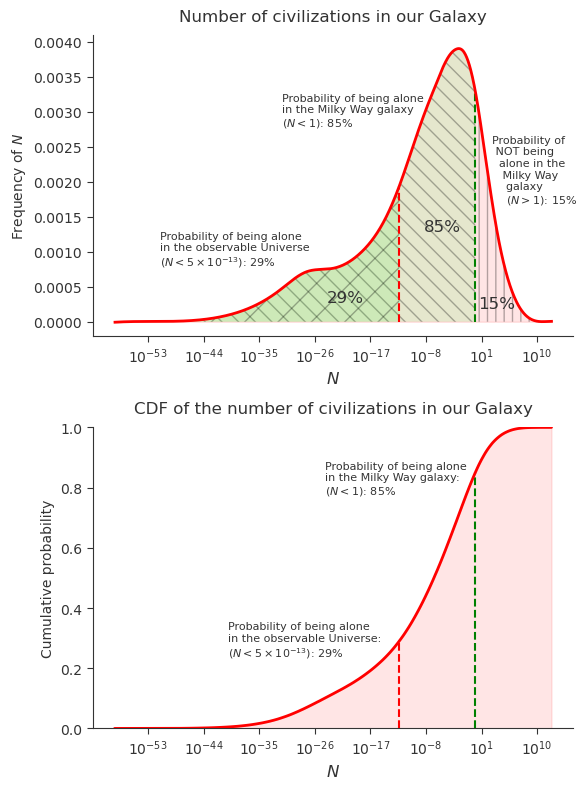
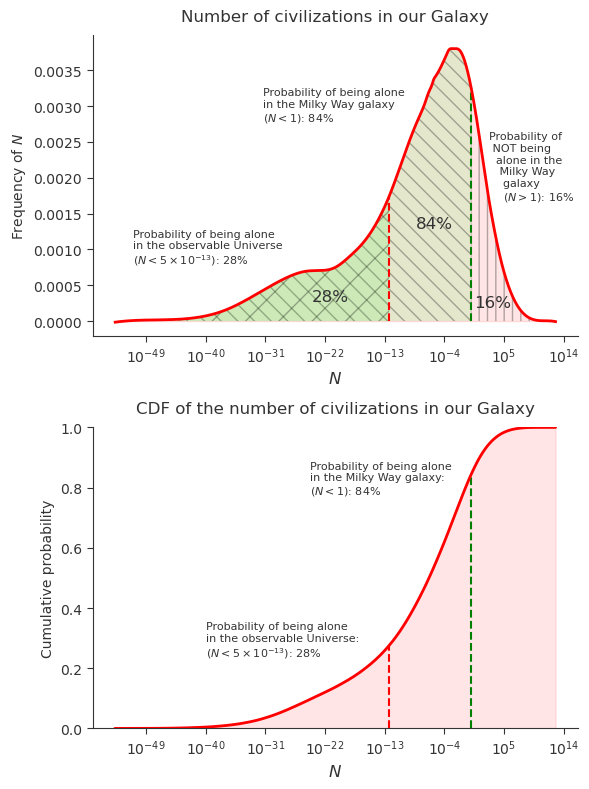
Small data update
Small data update.

diff --git a/Drake_Metaculus.py b/Drake_Metaculus.py
@@ -1,6 +1,7 @@
 """
-This script fetches data from the Metaculus API, processes it to obtain CDF and PDF data,
-and provides functions to visualize the data using histograms and lineplots.
+This script fetches data from the Metaculus API, processes it to obtain CDF and 
+PDF data for some questions regarding the parameters of the Drake equation, and 
+plot the results in figures.
 
 Modules:
     - numpy
@@ -11,6 +12,7 @@ Modules:
     - requests
     - typing
 """
+
 #-------------------------------------------------------------------------------------------
 #-------------------------------------------------------------------------------------------
 import numpy as np
